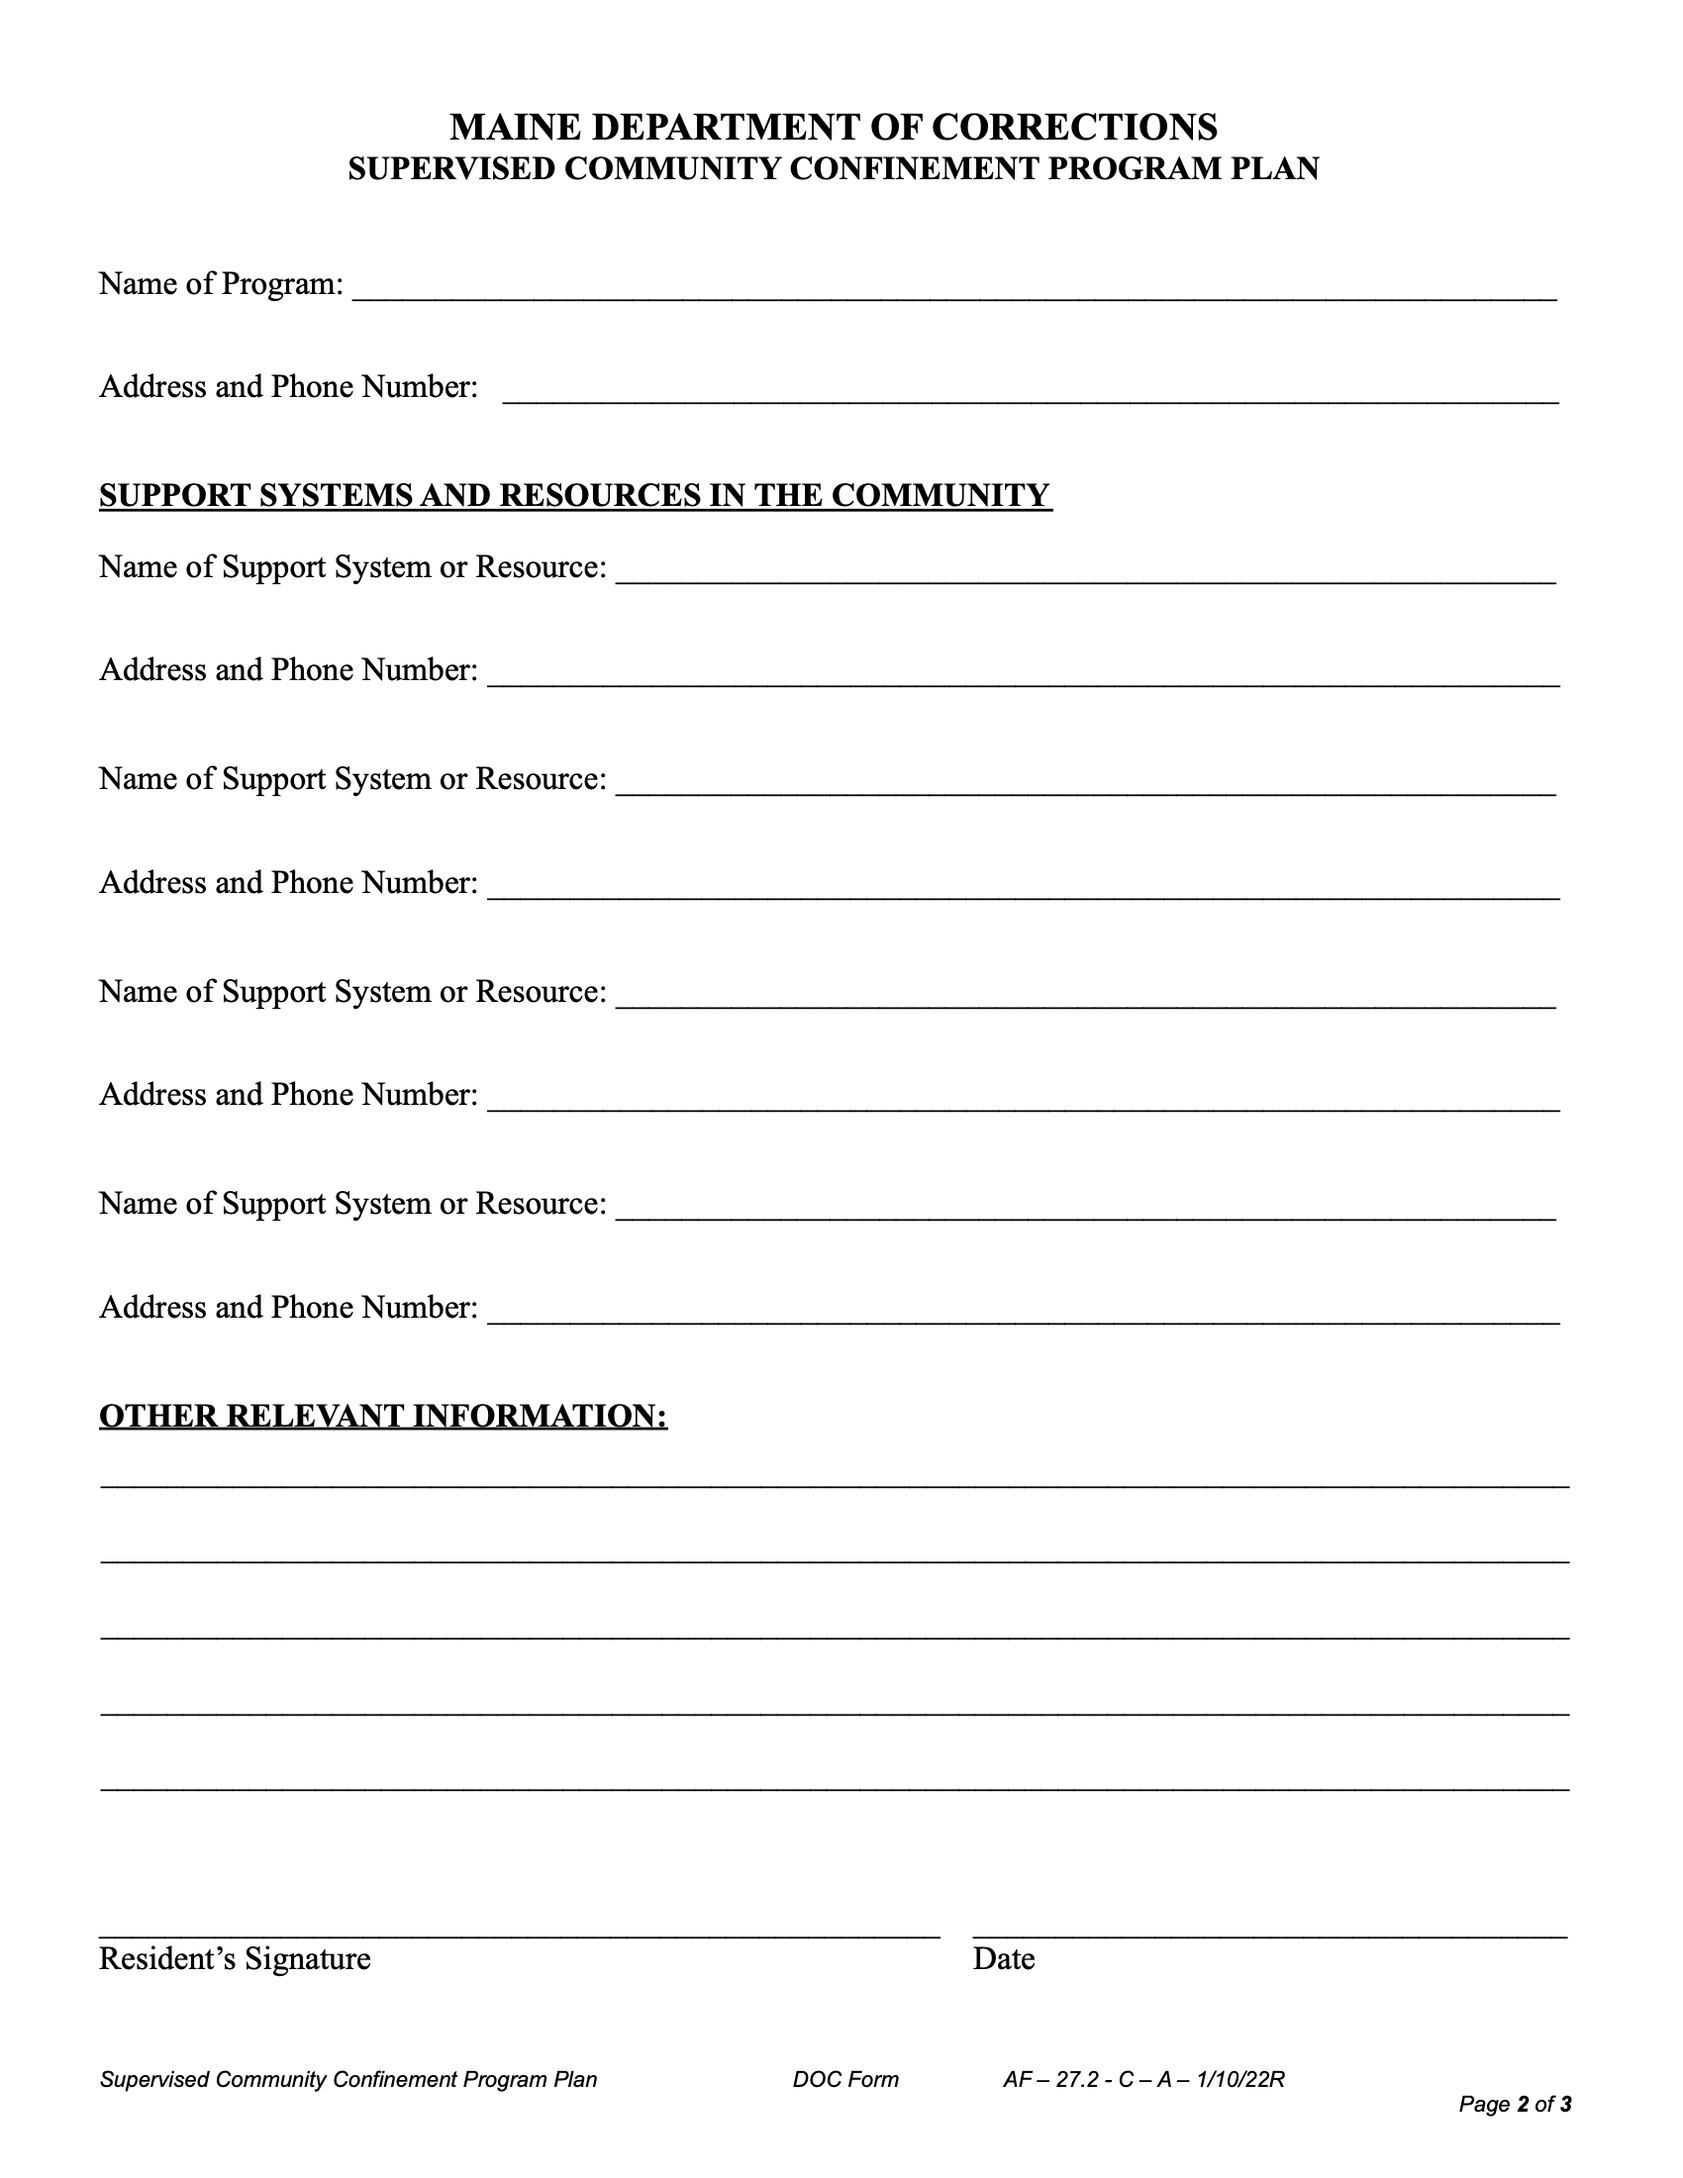
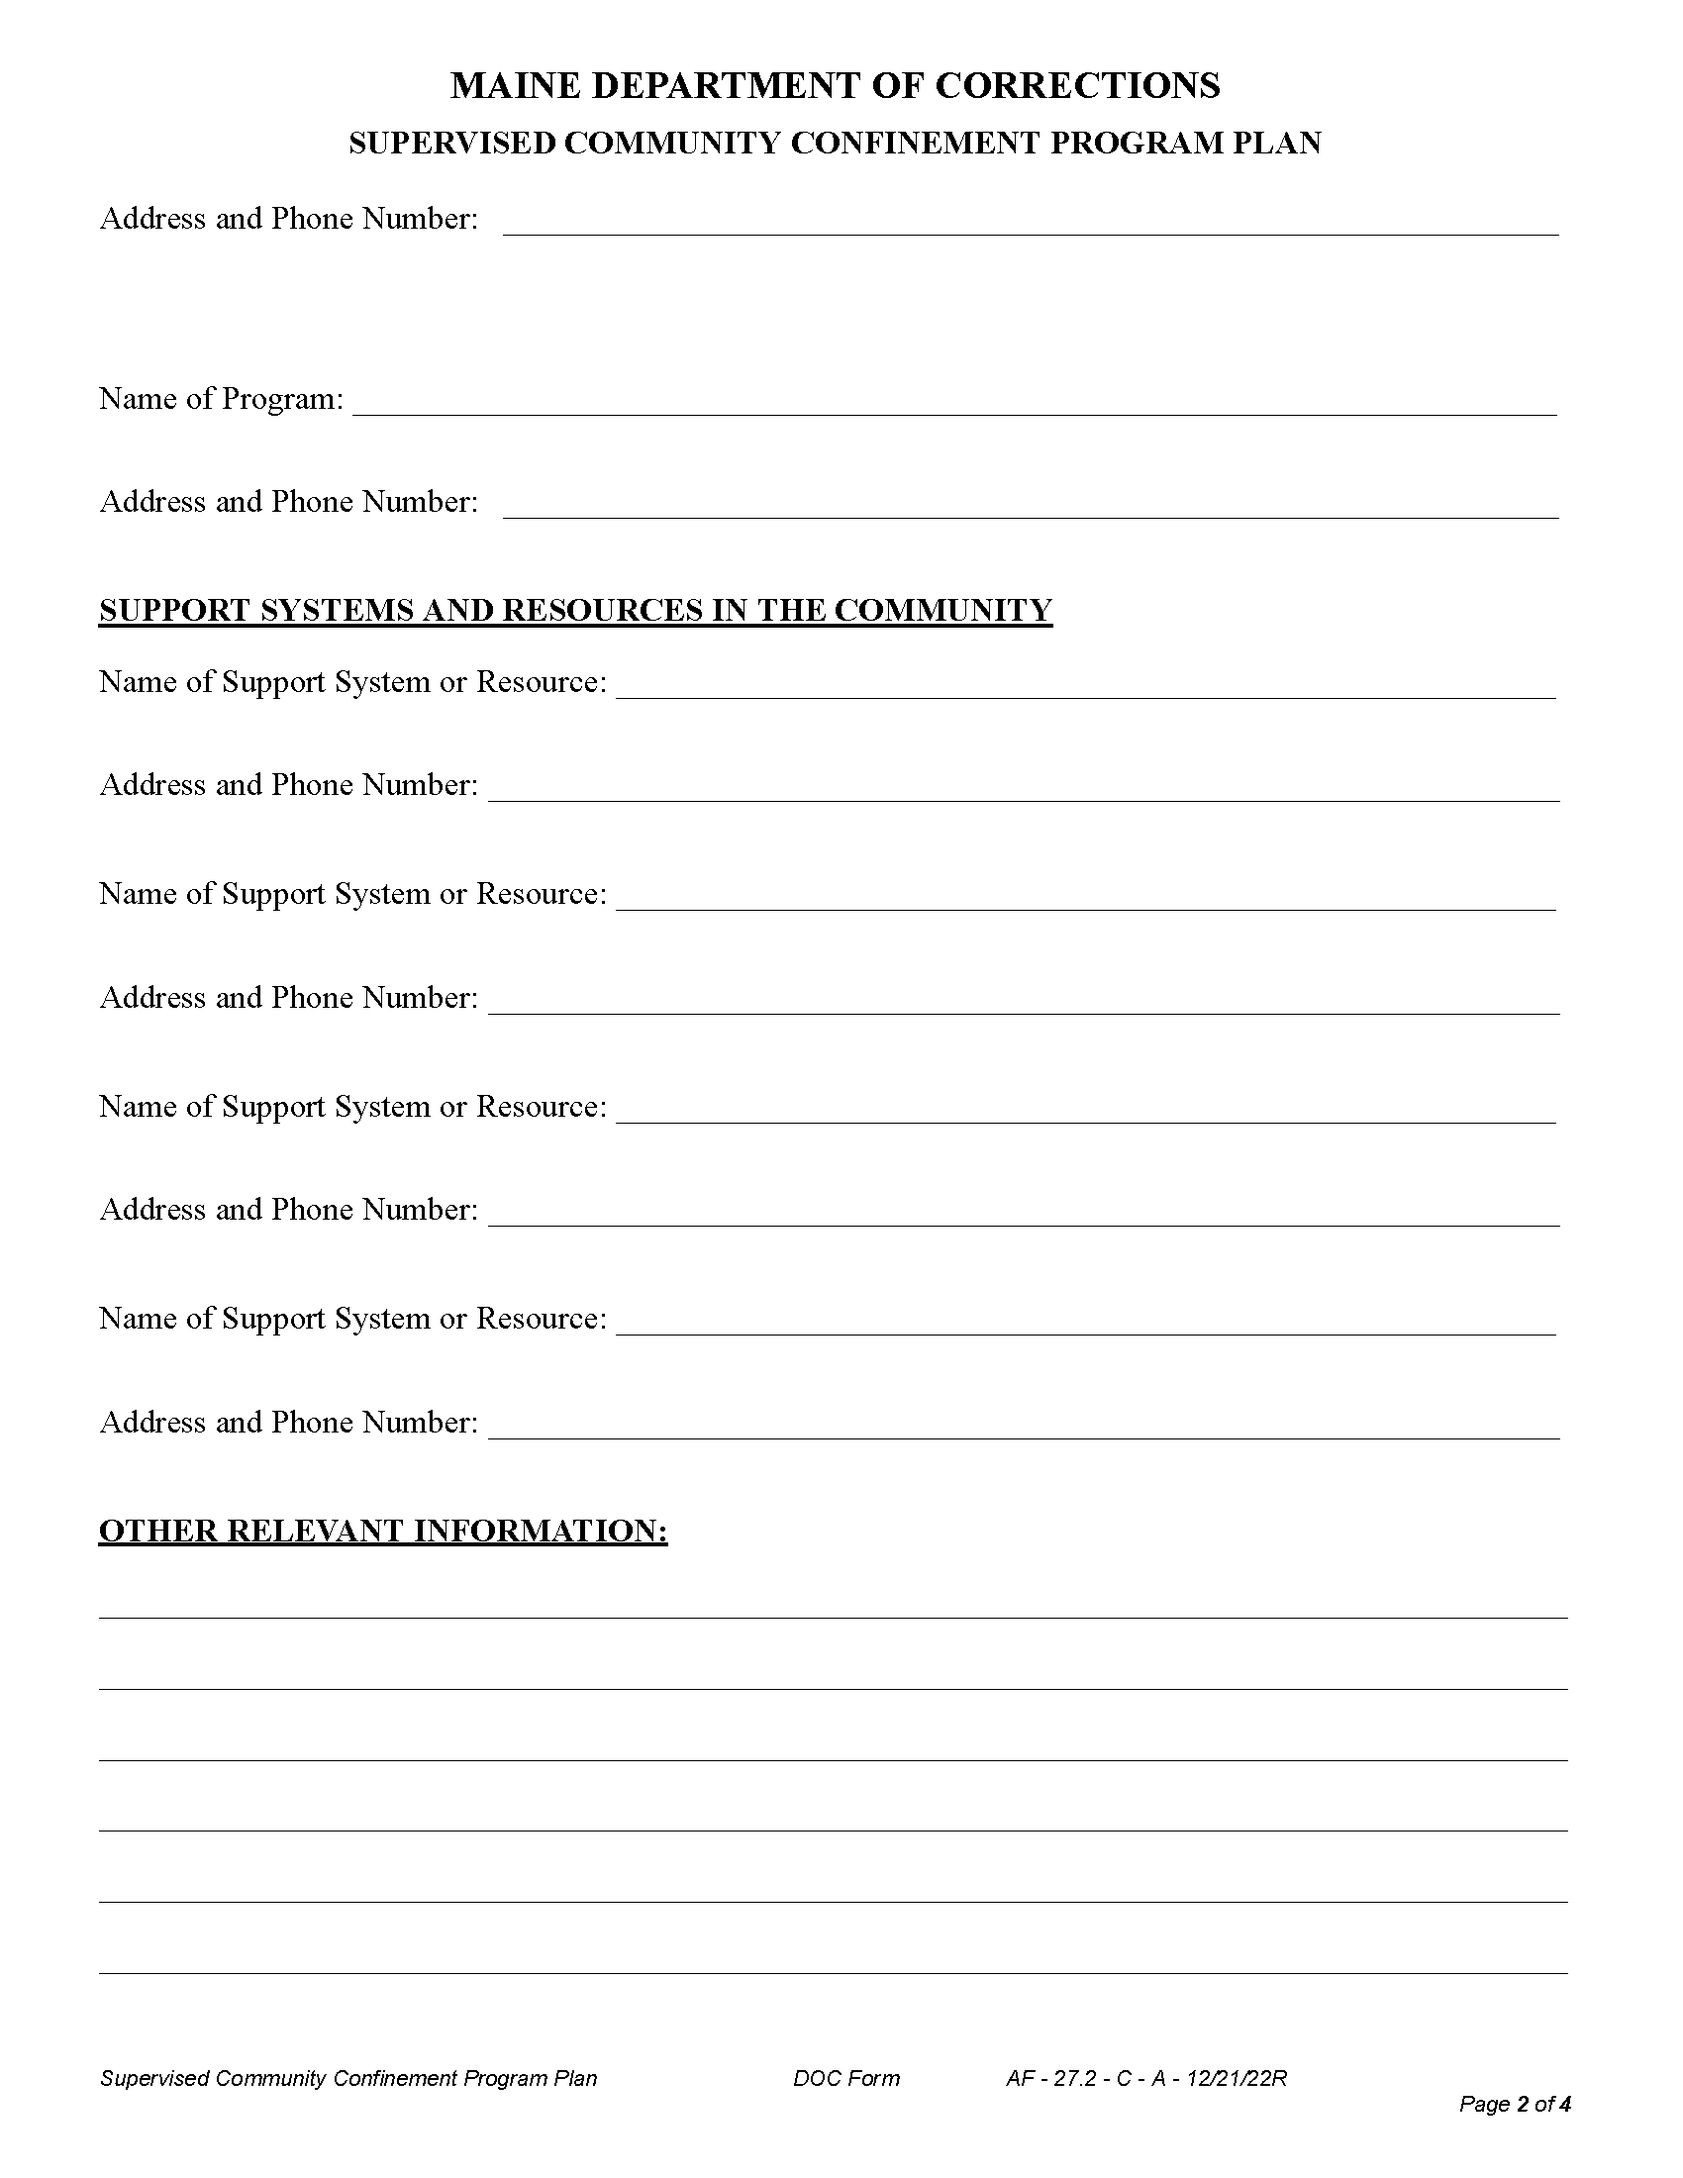
[Workflows][US_ME] Update SCCP documents (Recidiviz/recidiviz-dashboards#4329)
* updated docs

* updated images

* Add new image for preview on FormSCCP.tsx

- Added new image `p7.png` to the `previewImages` array in `FormSCCP.tsx` for preview on the form.
- The image file `p5.png` was modified.
- The image file `p6.png` was modified.
- Added new image `p7.png` to the assets folder in `FormSCCP`.

* Updated p7.png image file.

GitOrigin-RevId: f0bb6a5b6bdf573cd916f735ea96fc7f60b8cf51

diff --git a/src/core/Paperwork/US_ME/SCCP/FormSCCP.tsx b/src/core/Paperwork/US_ME/SCCP/FormSCCP.tsx
@@ -33,13 +33,14 @@ import p3 from "./assets/p3.png";
 import p4 from "./assets/p4.png";
 import p5 from "./assets/p5.png";
 import p6 from "./assets/p6.png";
+import p7 from "./assets/p7.png";
 
 const FormPreviewPage = styled.img`
   height: auto;
   width: 100%;
 `;
 
-const previewImages = [p1, p2, p3, p4, p5, p6];
+const previewImages = [p1, p2, p3, p4, p5, p6, p7];
 
 const formDownloader = async (resident: Resident): Promise<void> => {
   let contents: DocxTemplateFormContents;
